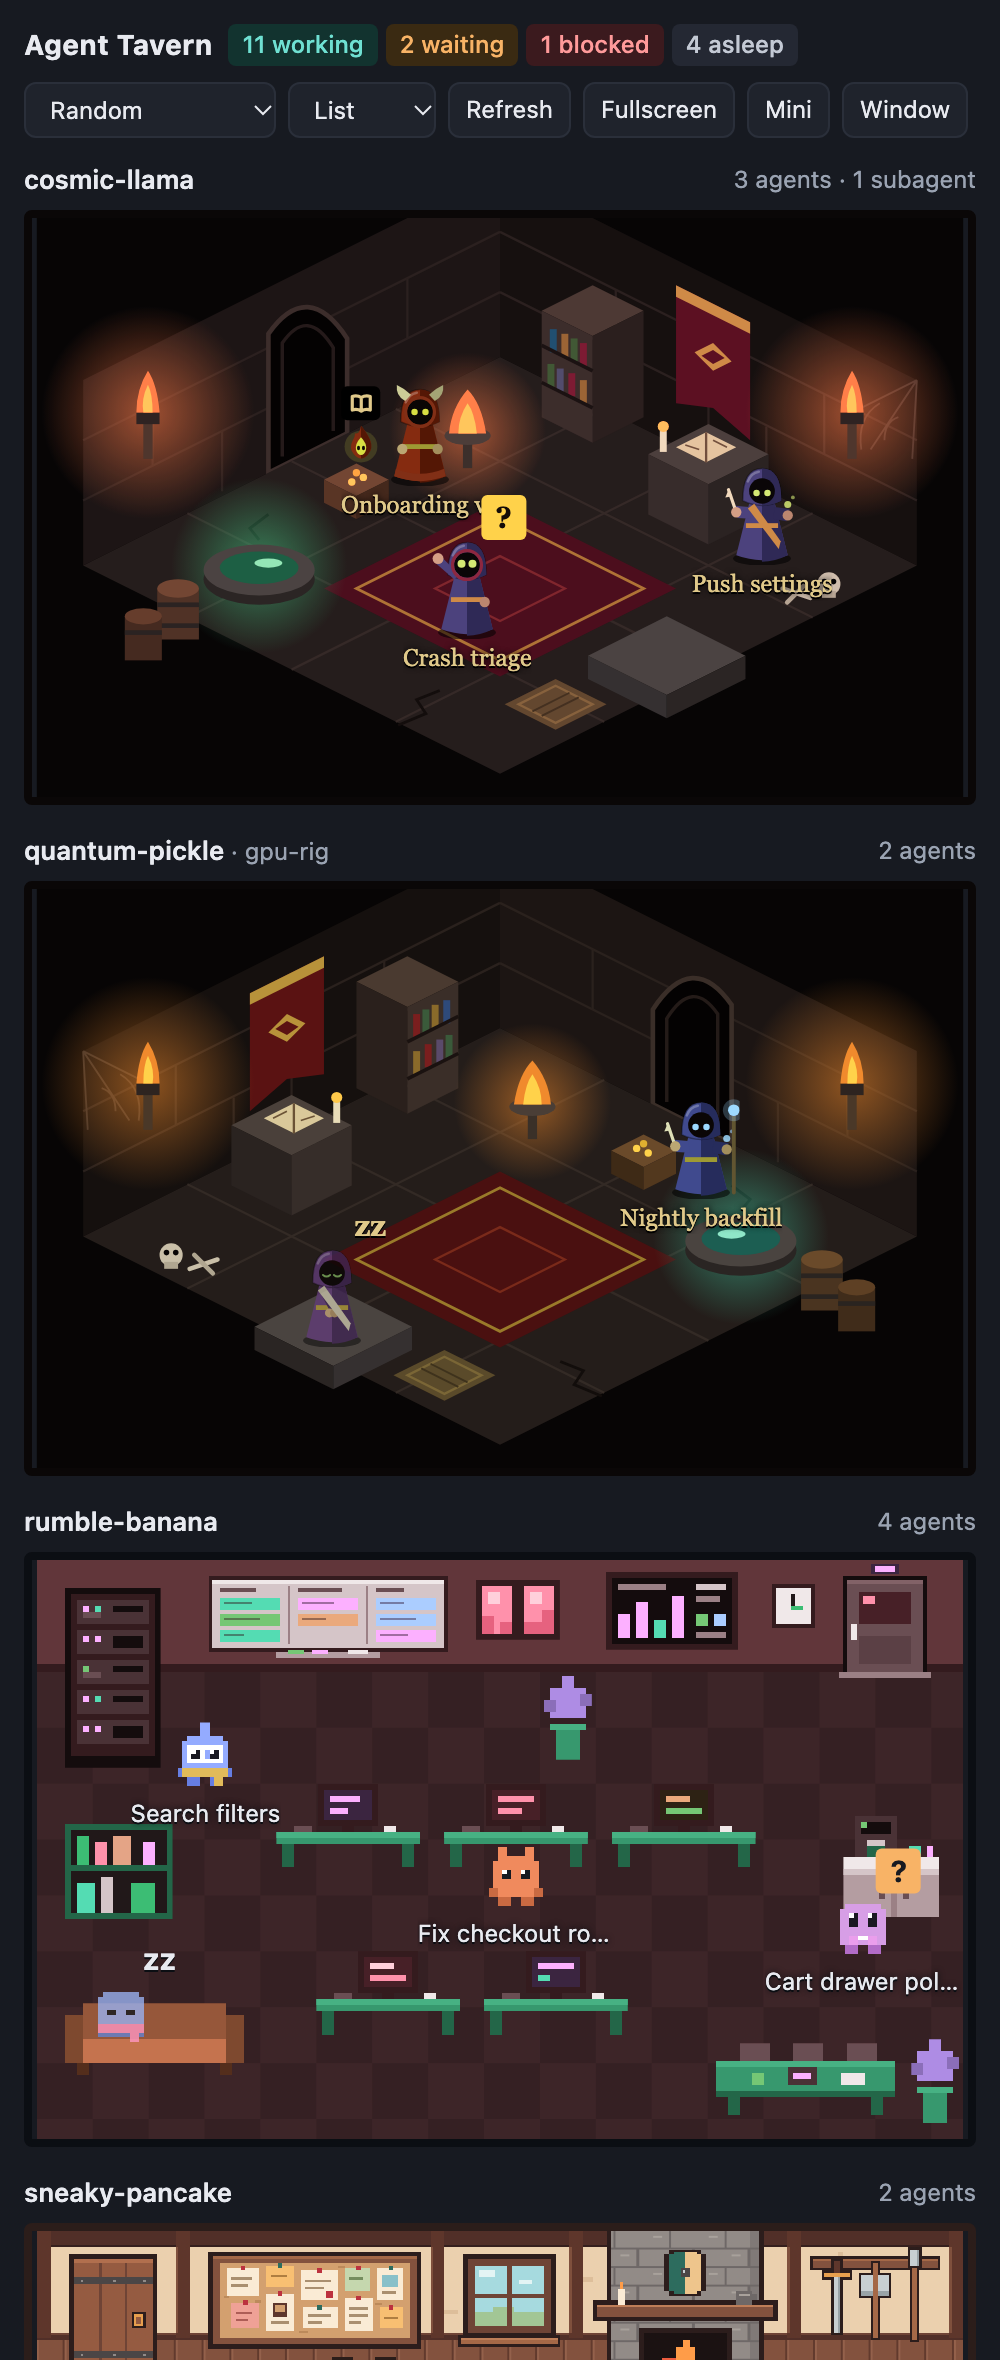
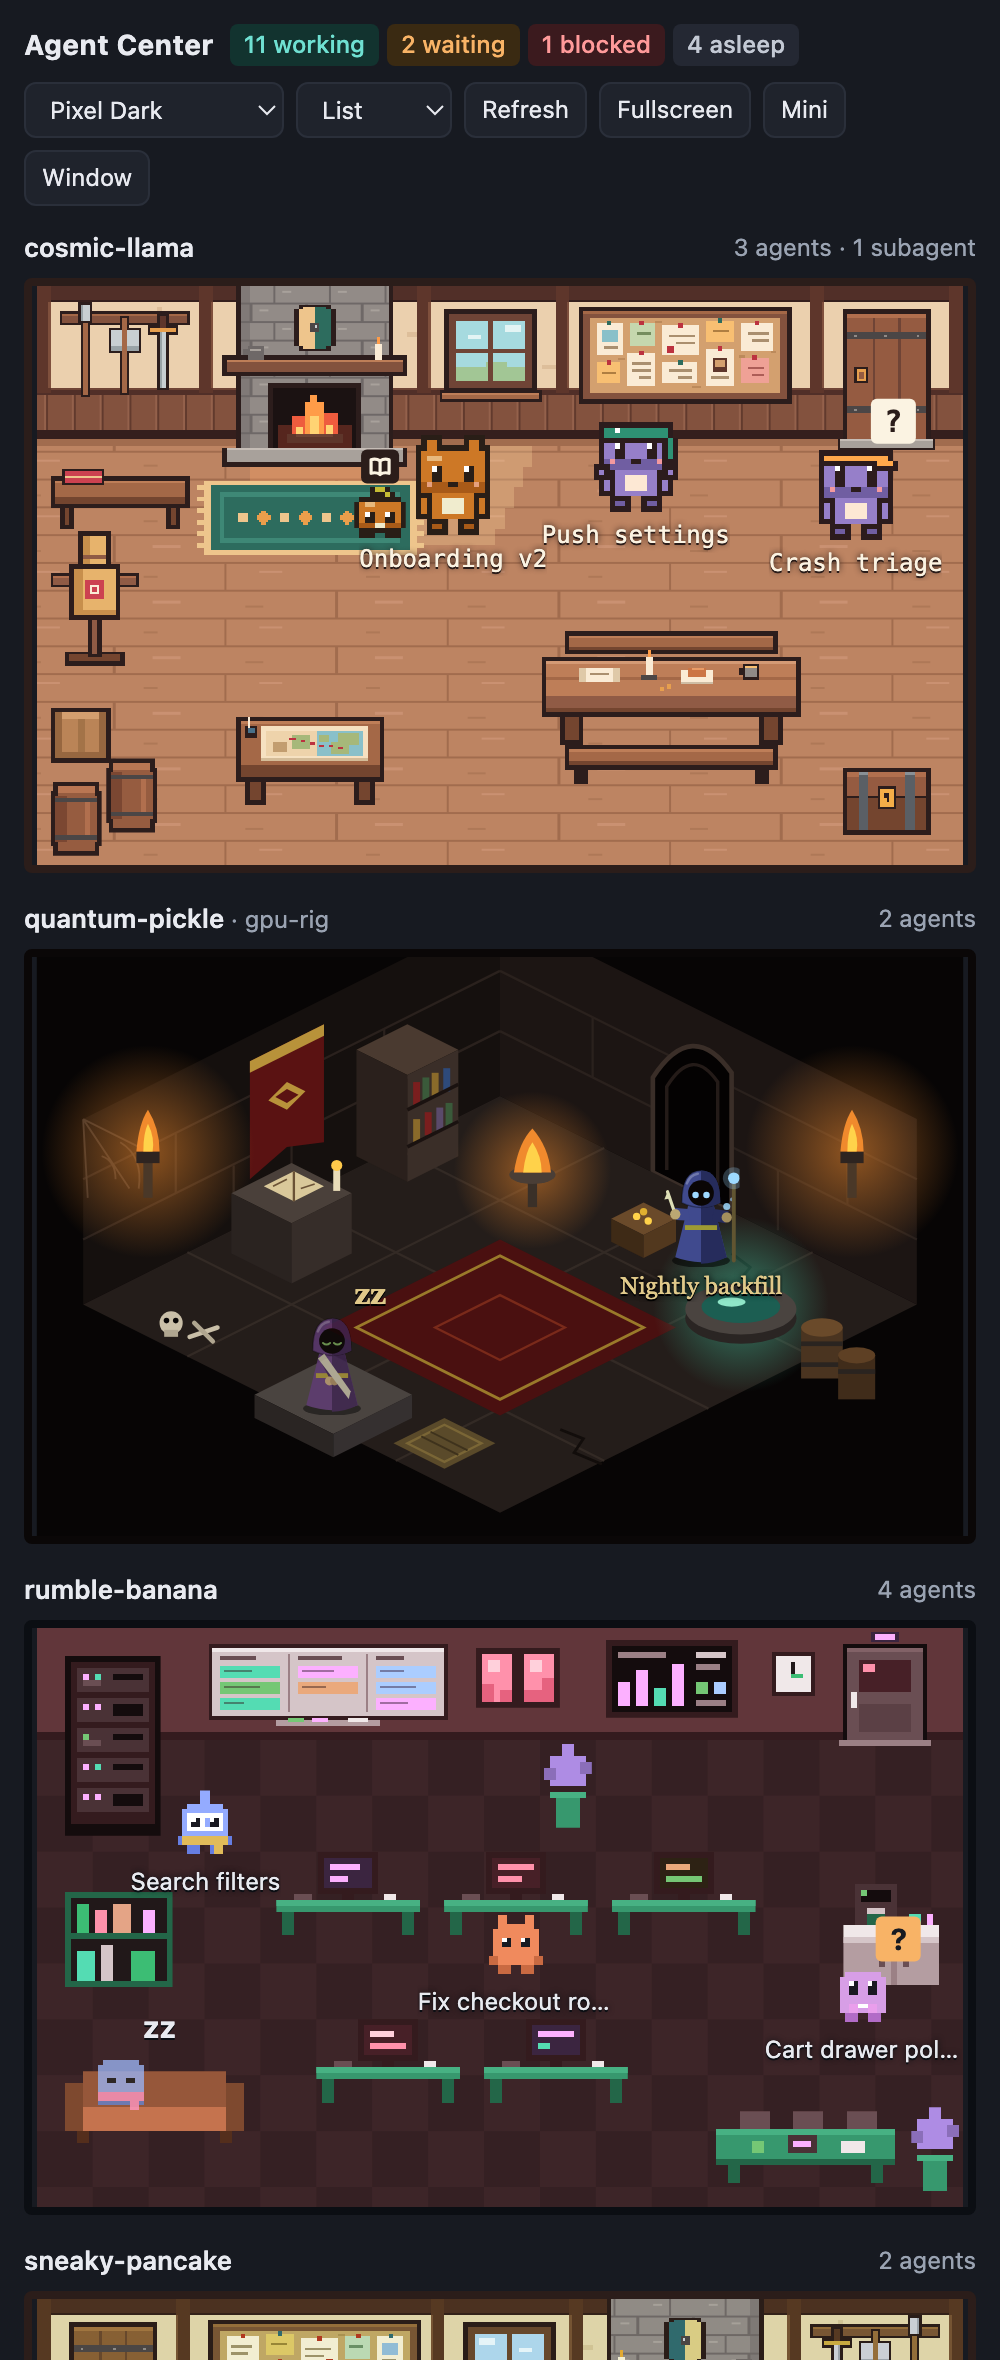
Revert "docs!: rename the plugin's display name to Agent Tavern"
This reverts commit 0103ae02f7c184bda62565fb68076cfc2dfc371a.

diff --git a/ui/engine/header.js b/ui/engine/header.js
@@ -52,7 +52,7 @@ export function createHeader({ transport, extraActions = [], onViewChange, onRef
   // The title and the counters share a row that never wraps, so a control put at its end stays
   // on the first line whatever the tools do. Without such a control the row lays out as before.
   const titleRow = el('div', 'ac-title-row')
-  titleRow.append(el('h1', 'ac-title', 'Agent Tavern'), counts)
+  titleRow.append(el('h1', 'ac-title', 'Agent Center'), counts)
   element.append(titleRow, tools)
 
   function addChip(count, label, tone) {

diff --git a/ui/boot/orca.js b/ui/boot/orca.js
@@ -39,7 +39,7 @@ const actions = [
     onClick: async () => {
       const { webUrl } = await transport.getState()
       if (!webUrl) {
-        await orca.host.call('notifications.show', { title: 'Agent Tavern', body: 'The external view is turned off.' }).catch(() => {})
+        await orca.host.call('notifications.show', { title: 'Agent Center', body: 'The external view is turned off.' }).catch(() => {})
         return
       }
       await orca.shell.openExternal(webUrl)

diff --git a/ui/engine/labels.js b/ui/engine/labels.js
@@ -150,7 +150,7 @@ export function gameUnavailable(status) {
   if (status === 'newer-save') {
     return {
       title: 'The game was saved by a newer version',
-      lines: ['Update Agent Tavern to carry on. Nothing in the save was changed.', rooms]
+      lines: ['Update Agent Center to carry on. Nothing in the save was changed.', rooms]
     }
   }
   return { title: 'The game is not running', lines: ['Game mode is on, but the game cannot run now.', rooms] }

diff --git a/ui/web.html b/ui/web.html
@@ -3,7 +3,7 @@
   <head>
     <meta charset="utf-8" />
     <meta name="viewport" content="width=device-width, initial-scale=1" />
-    <title>Agent Tavern</title>
+    <title>Agent Center</title>
     <link rel="stylesheet" href="/ui/stage.css" />
     <link rel="stylesheet" href="/ui/game.css" />
   </head>

diff --git a/ui/panel.html b/ui/panel.html
@@ -3,7 +3,7 @@
   <head>
     <meta charset="utf-8" />
     <meta name="viewport" content="width=device-width, initial-scale=1" />
-    <title>Agent Tavern</title>
+    <title>Agent Center</title>
     <link rel="stylesheet" href="./stage.css" />
     <link rel="stylesheet" href="./game.css" />
   </head>

diff --git a/ui/tab.html b/ui/tab.html
@@ -3,7 +3,7 @@
   <head>
     <meta charset="utf-8" />
     <meta name="viewport" content="width=device-width, initial-scale=1" />
-    <title>Agent Tavern</title>
+    <title>Agent Center</title>
     <link rel="stylesheet" href="./stage.css" />
     <link rel="stylesheet" href="./game.css" />
   </head>

diff --git a/README.md b/README.md
@@ -1,12 +1,9 @@
 <div align="center">
 
-# Agent Tavern
+# Agent Center & Auto-Battler
 
-### Where your Orca agents hang out, and an auto-battler that runs on their work
-
-**A tavern for every project in [Orca](https://github.com/stablyai/orca): each coding agent is a
-character acting out what it is doing right now. Leave them be, or turn on game mode and the
-party heads out to fight.**
+**A live room for every project in [Orca](https://github.com/stablyai/orca), where your coding
+agents are characters acting out their work, and an idle auto-battler that runs on what they do.**
 
 ![Six project rooms in game mode: each room's party of agents fights its monster](docs/screenshots/game-gallery.png)
 
@@ -111,7 +108,7 @@ the game: no clicking is needed, and nothing is lost by ignoring it for a day.
 
 ### Turning it on
 
-Open Orca's Settings, go to Plugins, then Agent Tavern, and turn on **Game mode**. The panel
+Open Orca's Settings, go to Plugins, then Agent Center, and turn on **Game mode**. The panel
 gains three tabs: **Rooms**, **Arsenal** (chest, party and camp) and **Skills**. The cog in the
 panel's header opens the game's own settings: worlds, auto-spend and the save file.
 
@@ -187,8 +184,8 @@ listed at the bottom, one click away.
 
 | Place | How to open it |
 |---|---|
-| Orca's sidebar | the **Agent Tavern** panel; **Collapse** leaves only the counters |
-| A tab, next to the terminals | the tabs' **+** menu, **Agent Tavern** |
+| Orca's sidebar | the **Agent Center** panel; **Collapse** leaves only the counters |
+| A tab, next to the terminals | the tabs' **+** menu, **Agent Center** |
 | Status bar | the item with the agent count shows or hides the sidebar |
 | Detached window | **Pop out** opens the external view in your browser; there, **Window** |
 | Fullscreen on another monitor | in the external view, **Fullscreen** |
@@ -210,7 +207,7 @@ names and change the themes. [SECURITY.md](SECURITY.md) lists everything the pag
 
 ## Install
 
-Find **Agent Tavern** in Orca's plugin directory, or open its page:
+Find **Agent Center & Auto-Battler** in Orca's plugin directory, or open its page:
 <https://orca.dev/plugins/klausbegnis/agent-center>.
 
 To run it from a checkout instead:

diff --git a/CONTRIBUTING.md b/CONTRIBUTING.md
@@ -1,4 +1,4 @@
-# Contributing to Agent Tavern
+# Contributing to Agent Center
 
 Thanks for wanting to help. This page gets you from a clone to a merged pull request. For how
 issues are triaged and pull requests are merged, see [docs/MAINTAINING.md](docs/MAINTAINING.md).

diff --git a/docs/MAINTAINING.md b/docs/MAINTAINING.md
@@ -1,4 +1,4 @@
-# Maintaining Agent Tavern
+# Maintaining Agent Center
 
 How issues are triaged, how pull requests are reviewed and merged, and how releases are cut.
 Contributors do not need this page; [CONTRIBUTING.md](../CONTRIBUTING.md) is theirs.

diff --git a/AGENTS.md b/AGENTS.md
@@ -1,4 +1,4 @@
-# Agent Tavern
+# Agent Center
 
 An Orca plugin: one room per project, where each agent is a character acting out what it is
 doing. Plain JavaScript, no build step, no runtime dependencies.
